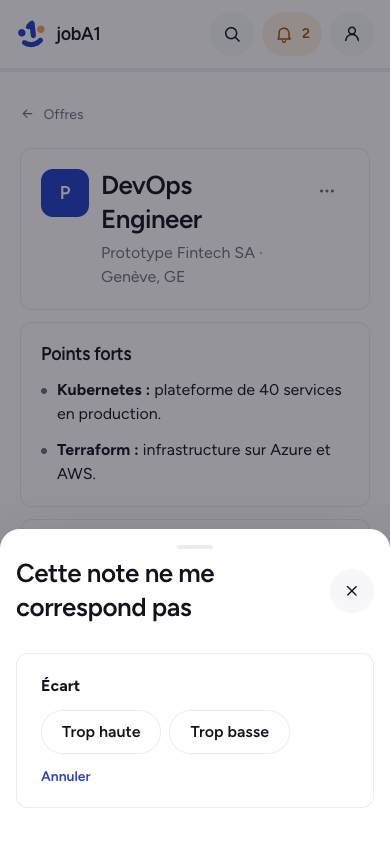
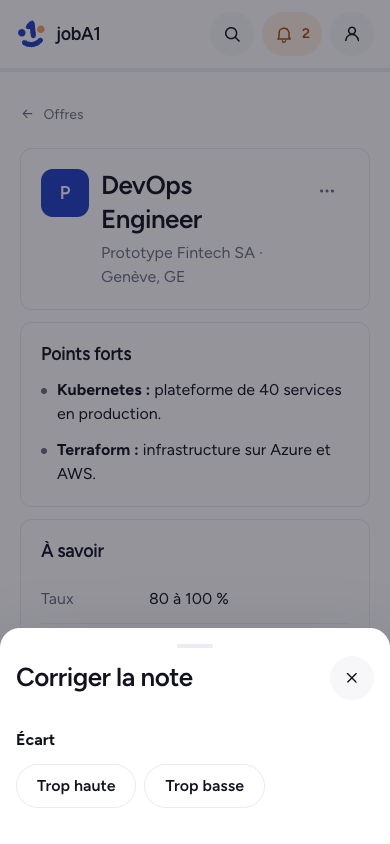
fix(fiche): « Corriger la note » sans cadre ni « Annuler » dans la feuille

diff --git a/frontend/src/components/ScoreCorrection.vue b/frontend/src/components/ScoreCorrection.vue
@@ -8,7 +8,8 @@ import { offerUndo } from "../composables/useUndo";
 // ou trop basse, pourquoi) ; puis un bloc de profil à relire, ou un critère en un clic. Rien
 // n'est appris en cachette : la correction passe par un bloc visible dans Profil, ou par un
 // critère. Envoyée au bout de 6 secondes, sauf « Annuler ».
-// `startOpen` : les deux questions tout de suite (dans la feuille du bas ouverte par « ⋯ », téléphone).
+// `startOpen` : dans la feuille du bas ouverte par « ⋯ » (téléphone) : les questions tout de suite,
+// sans cadre (pas de boîte dans la boîte) et sans « Annuler » (le ✕ de la feuille ferme).
 const props = withDefaults(defineProps<{ offerId: number; startOpen?: boolean }>(), { startOpen: false });
 const emit = defineEmits<{ changed: []; cancel: [] }>();
 
@@ -177,7 +178,7 @@ function applyChange(change: Change): void {
 
     <div
       v-else
-      class="score-correction-card"
+      :class="['score-correction-card', { bare: startOpen }]"
     >
       <p class="score-correction-question">
         <strong>Écart</strong>
@@ -282,6 +283,7 @@ function applyChange(change: Change): void {
             Ajouter à mon profil
           </button>
           <button
+            v-if="!startOpen"
             type="button"
             class="pill"
             data-test="score-correction-cancel"
@@ -321,6 +323,7 @@ function applyChange(change: Change): void {
           </RouterLink>
         </div>
         <button
+          v-if="!startOpen"
           type="button"
           class="link"
           @click="cancel"
@@ -337,7 +340,7 @@ function applyChange(change: Change): void {
         {{ error }}
       </p>
       <button
-        v-if="!block && !changes"
+        v-if="!block && !changes && !startOpen"
         type="button"
         class="link"
         data-test="score-correction-close"

diff --git a/frontend/src/components/OfferDetail.test.ts b/frontend/src/components/OfferDetail.test.ts
@@ -229,7 +229,9 @@ describe("OfferDetail sur téléphone (planche « Tri et panneau de commande »)
     await wrapper.find("[data-test=score-correction-menu]").trigger("click");
     const sheet = wrapper.find("[data-test=score-correction-sheet]");
     expect(sheet.find("[data-test=score-correction-open]").exists()).toBe(false);
-    expect(sheet.find(".score-correction-card").exists()).toBe(true);
+    expect(sheet.find(".score-correction-card.bare").exists()).toBe(true);
+    // Le ✕ de la feuille ferme : pas de « Annuler » en plus.
+    expect(sheet.text()).not.toContain("Annuler");
     // Avec un niveau, la carte reste, avec le niveau seul.
     const level = await mountDetail(offer({ score: 78, why: "x", summary_role: "x", level: "above", level_detail: "" }));
     expect(level.find("[data-test=section-for-you] [data-test=score-level]").exists()).toBe(true);

diff --git a/frontend/src/style.css b/frontend/src/style.css
@@ -3591,6 +3591,8 @@ main:focus { outline: none; }
   .detail-column:has(.action-bar) .detail-panel { padding-bottom: calc(var(--action-bar-h) + var(--space-5)); }
 }
 .action-bar > .bar-link { align-self: flex-start; font-size: var(--font-body); }
+/* La correction de la note dans sa feuille du bas (fiche, téléphone) : sans cadre. */
+.score-correction-card.bare { padding: 0; background: none; border: 0; border-radius: 0; }
 /* « Préparer ma candidature » à la taille des autres boutons du panneau (Écarter, Garder, Relancer). */
 .action-bar > .bar-main { min-height: var(--control-h); font-size: var(--font-body); }
 

diff --git a/frontend/src/components/OfferDetail.vue b/frontend/src/components/OfferDetail.vue
@@ -450,7 +450,7 @@ watch(
     <BottomSheet
       v-if="withBar && scored"
       :open="correcting"
-      title="Cette note ne me correspond pas"
+      title="Corriger la note"
       data-test="score-correction-sheet"
       @close="correcting = false"
     >
